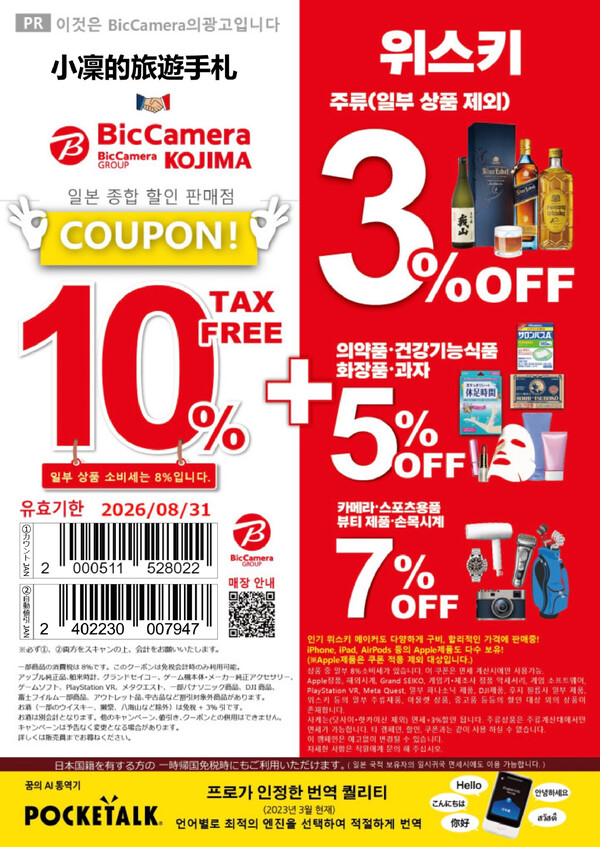
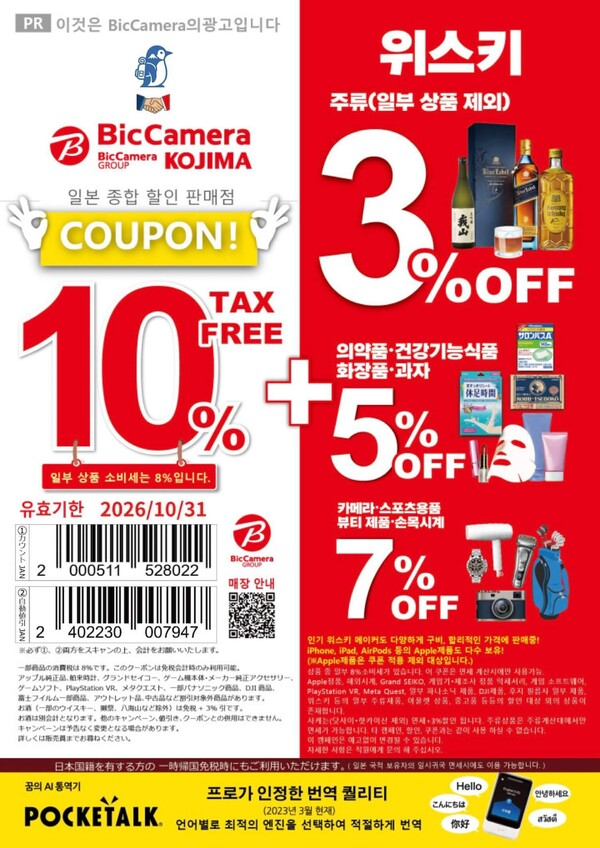
Coupon: update BicCamera coupon images and extend deadline to 2026/10/31
New TW and KR coupon designs replace the previous ones, both alias pages
(bic_camera/big_camera) updated in sync for TW and KR.

diff --git a/coupon/kr/bic_camera/index.html b/coupon/kr/bic_camera/index.html
@@ -33,7 +33,7 @@
     "price": "0",
     "priceCurrency": "JPY",
     "availability": "https://schema.org/InStock",
-    "validThrough": "2026-08-31",
+    "validThrough": "2026-10-31",
     "description": "최대 혜택"
   }
 }
@@ -316,7 +316,7 @@
         <h1>BicCamera (빅카메라) 쿠폰｜일정 금액 이상 구매 시 면세 10%, 최대 93% 할인 가능</h1>
         <p>일정 금액 이상 구매 시 면세 10%, 최대 93% 할인 가능</p>
         <p>할인 정보: 최대 혜택</p>
-        <p>할인 마감: 2026-08-31</p>
+        <p>할인 마감: 2026-10-31</p>
     </div>
     <script>
         (function(){

diff --git a/coupon/kr/big_camera/index.html b/coupon/kr/big_camera/index.html
@@ -33,7 +33,7 @@
     "price": "0",
     "priceCurrency": "JPY",
     "availability": "https://schema.org/InStock",
-    "validThrough": "2026-08-31",
+    "validThrough": "2026-10-31",
     "description": "최대 혜택"
   }
 }
@@ -315,7 +315,7 @@
         <h1>BicCamera (빅카메라) 쿠폰｜일정 금액 이상 구매 시 면세 10%, 최대 93% 할인 가능</h1>
         <p>일정 금액 이상 구매 시 면세 10%, 최대 93% 할인 가능</p>
         <p>할인 정보: 최대 혜택</p>
-        <p>할인 마감: 2026-08-31</p>
+        <p>할인 마감: 2026-10-31</p>
     </div>
     <script>
         (function(){

diff --git a/coupon/bic_camera/index.html b/coupon/bic_camera/index.html
@@ -33,7 +33,7 @@
     "price": "0",
     "priceCurrency": "JPY",
     "availability": "https://schema.org/InStock",
-    "validThrough": "2026-08-31",
+    "validThrough": "2026-10-31",
     "description": "83折"
   }
 }
@@ -315,7 +315,7 @@
         <h1>BicCamera 優惠券｜滿額免稅10%，最高可再享93折</h1>
         <p>滿額免稅10%，最高可再享93折</p>
         <p>折扣資訊：83折</p>
-        <p>優惠截止：2026-08-31</p>
+        <p>優惠截止：2026-10-31</p>
     </div>
     <script>
         (function(){

diff --git a/coupon/big_camera/index.html b/coupon/big_camera/index.html
@@ -33,7 +33,7 @@
     "price": "0",
     "priceCurrency": "JPY",
     "availability": "https://schema.org/InStock",
-    "validThrough": "2026-08-31",
+    "validThrough": "2026-10-31",
     "description": "83折"
   }
 }
@@ -314,7 +314,7 @@
         <h1>BicCamera 優惠券｜滿額免稅10%，最高可再享93折</h1>
         <p>滿額免稅10%，最高可再享93折</p>
         <p>折扣資訊：83折</p>
-        <p>優惠截止：2026-08-31</p>
+        <p>優惠截止：2026-10-31</p>
     </div>
     <script>
         (function(){
